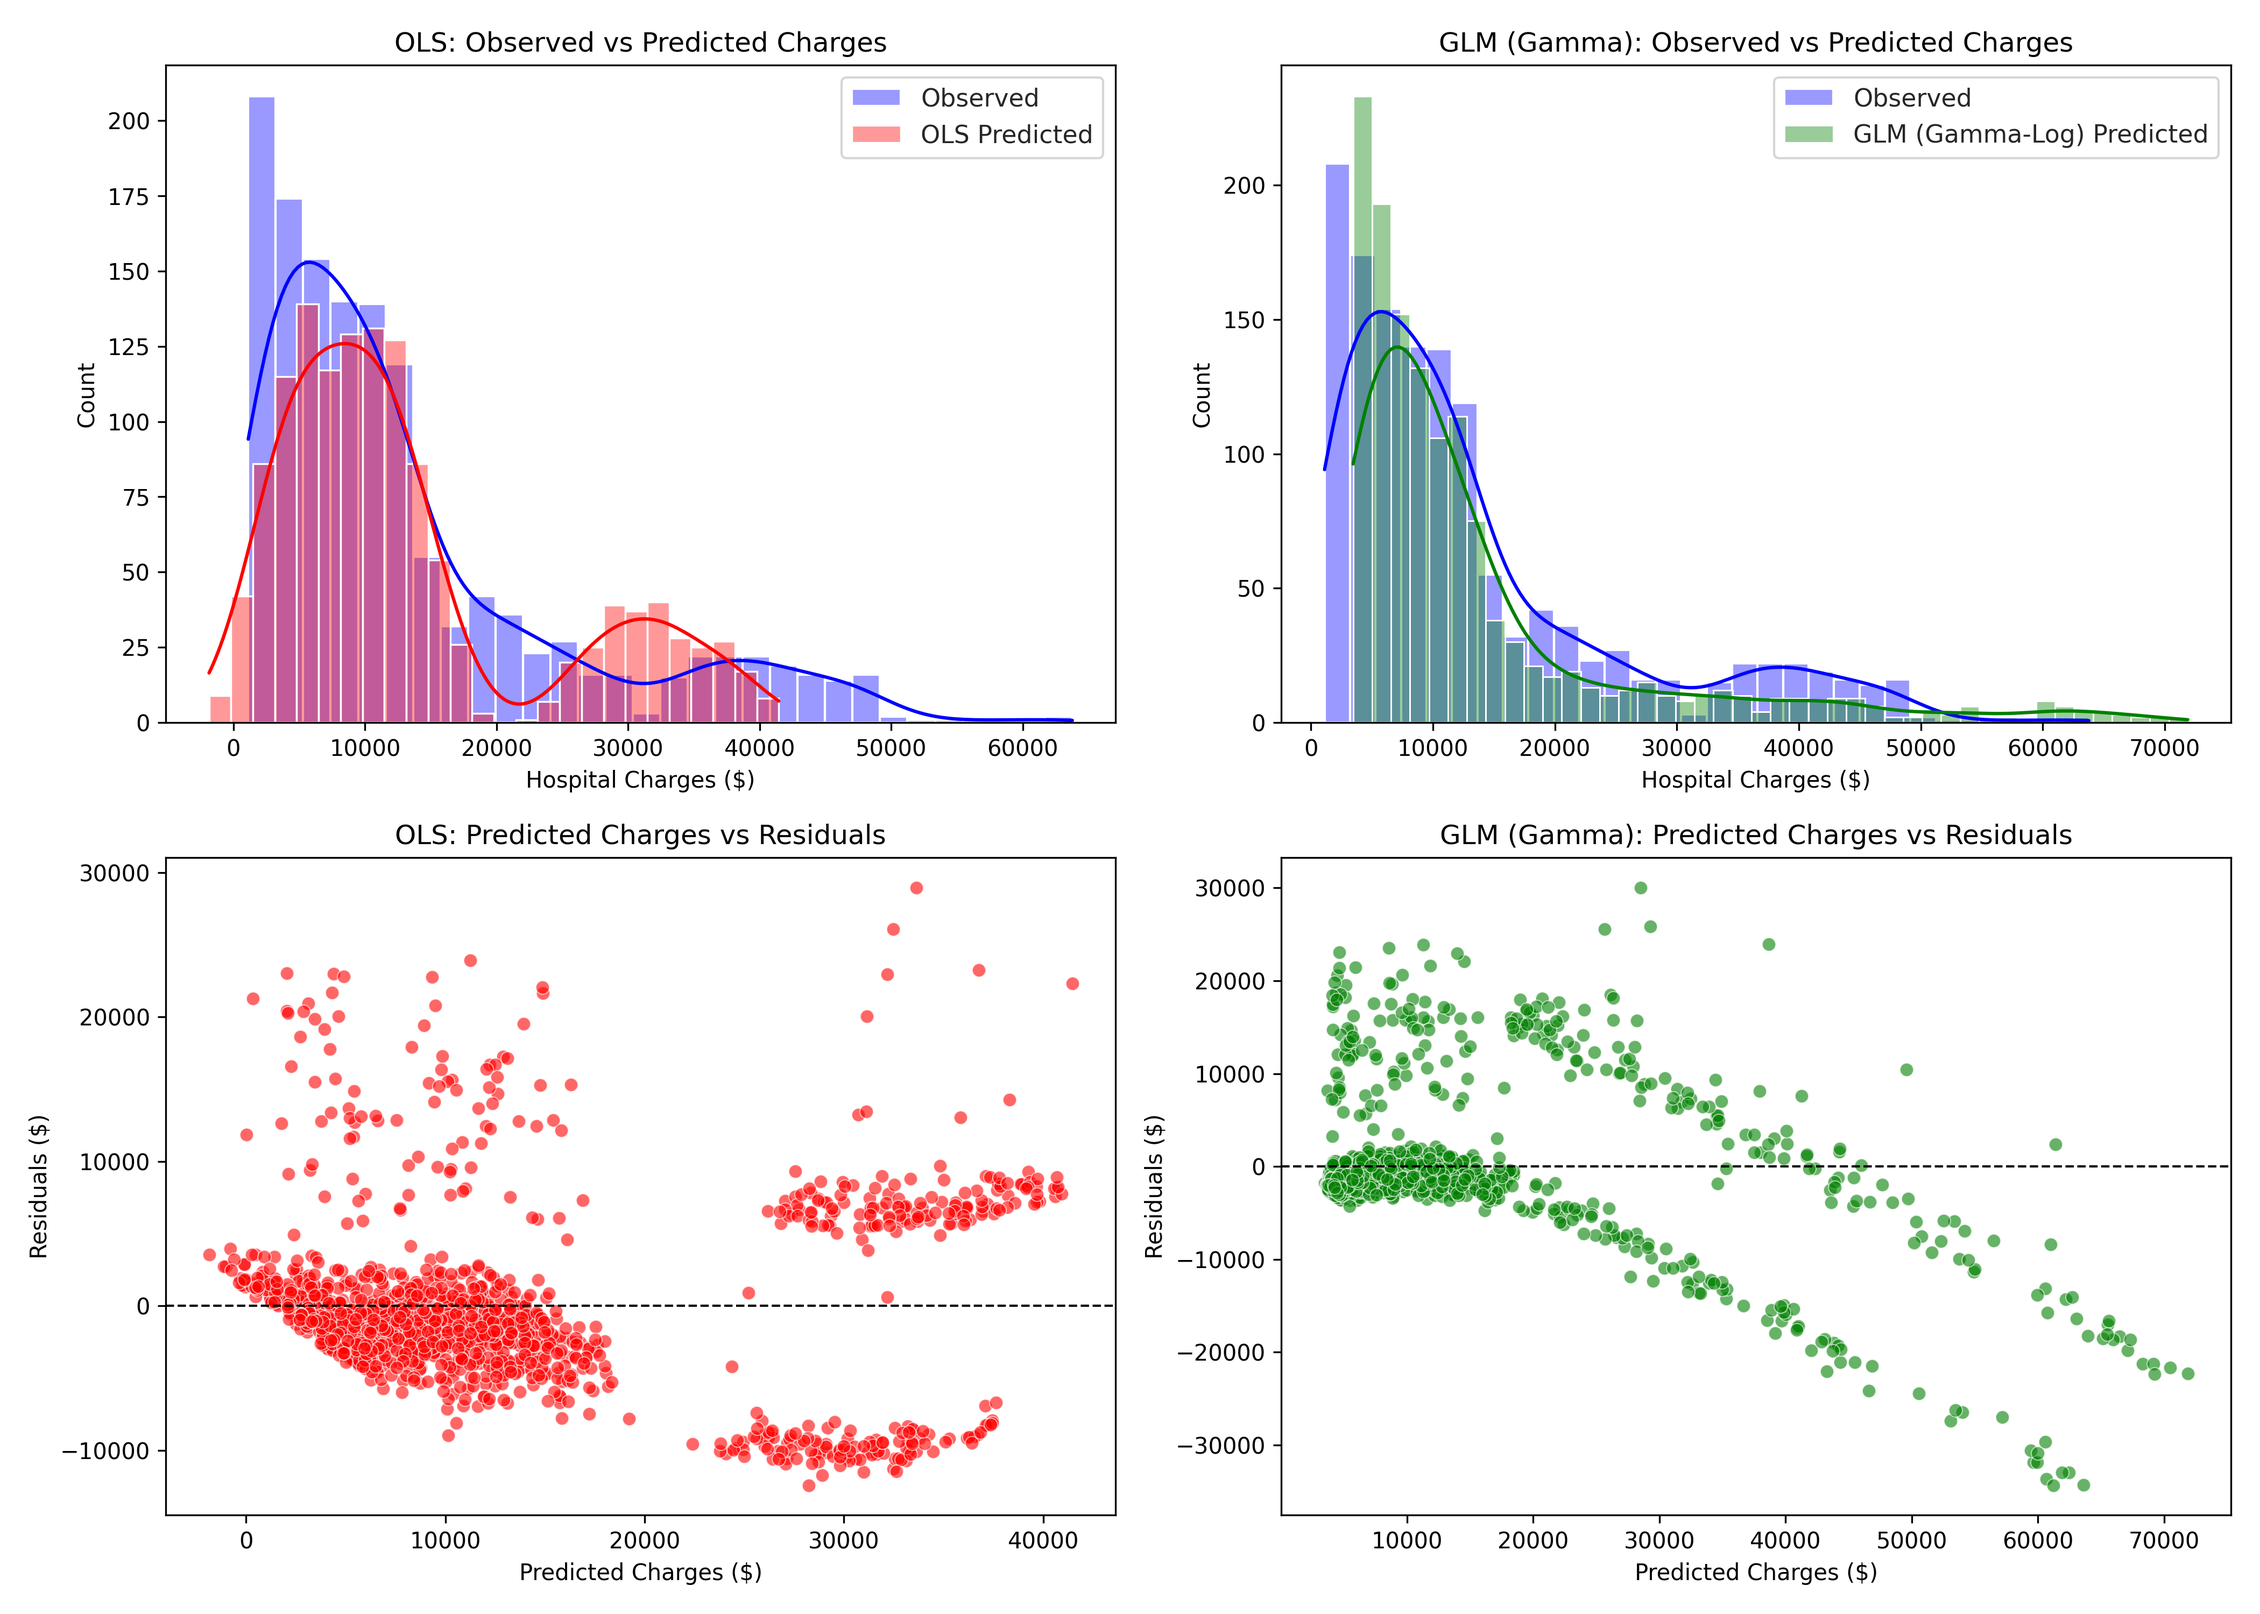
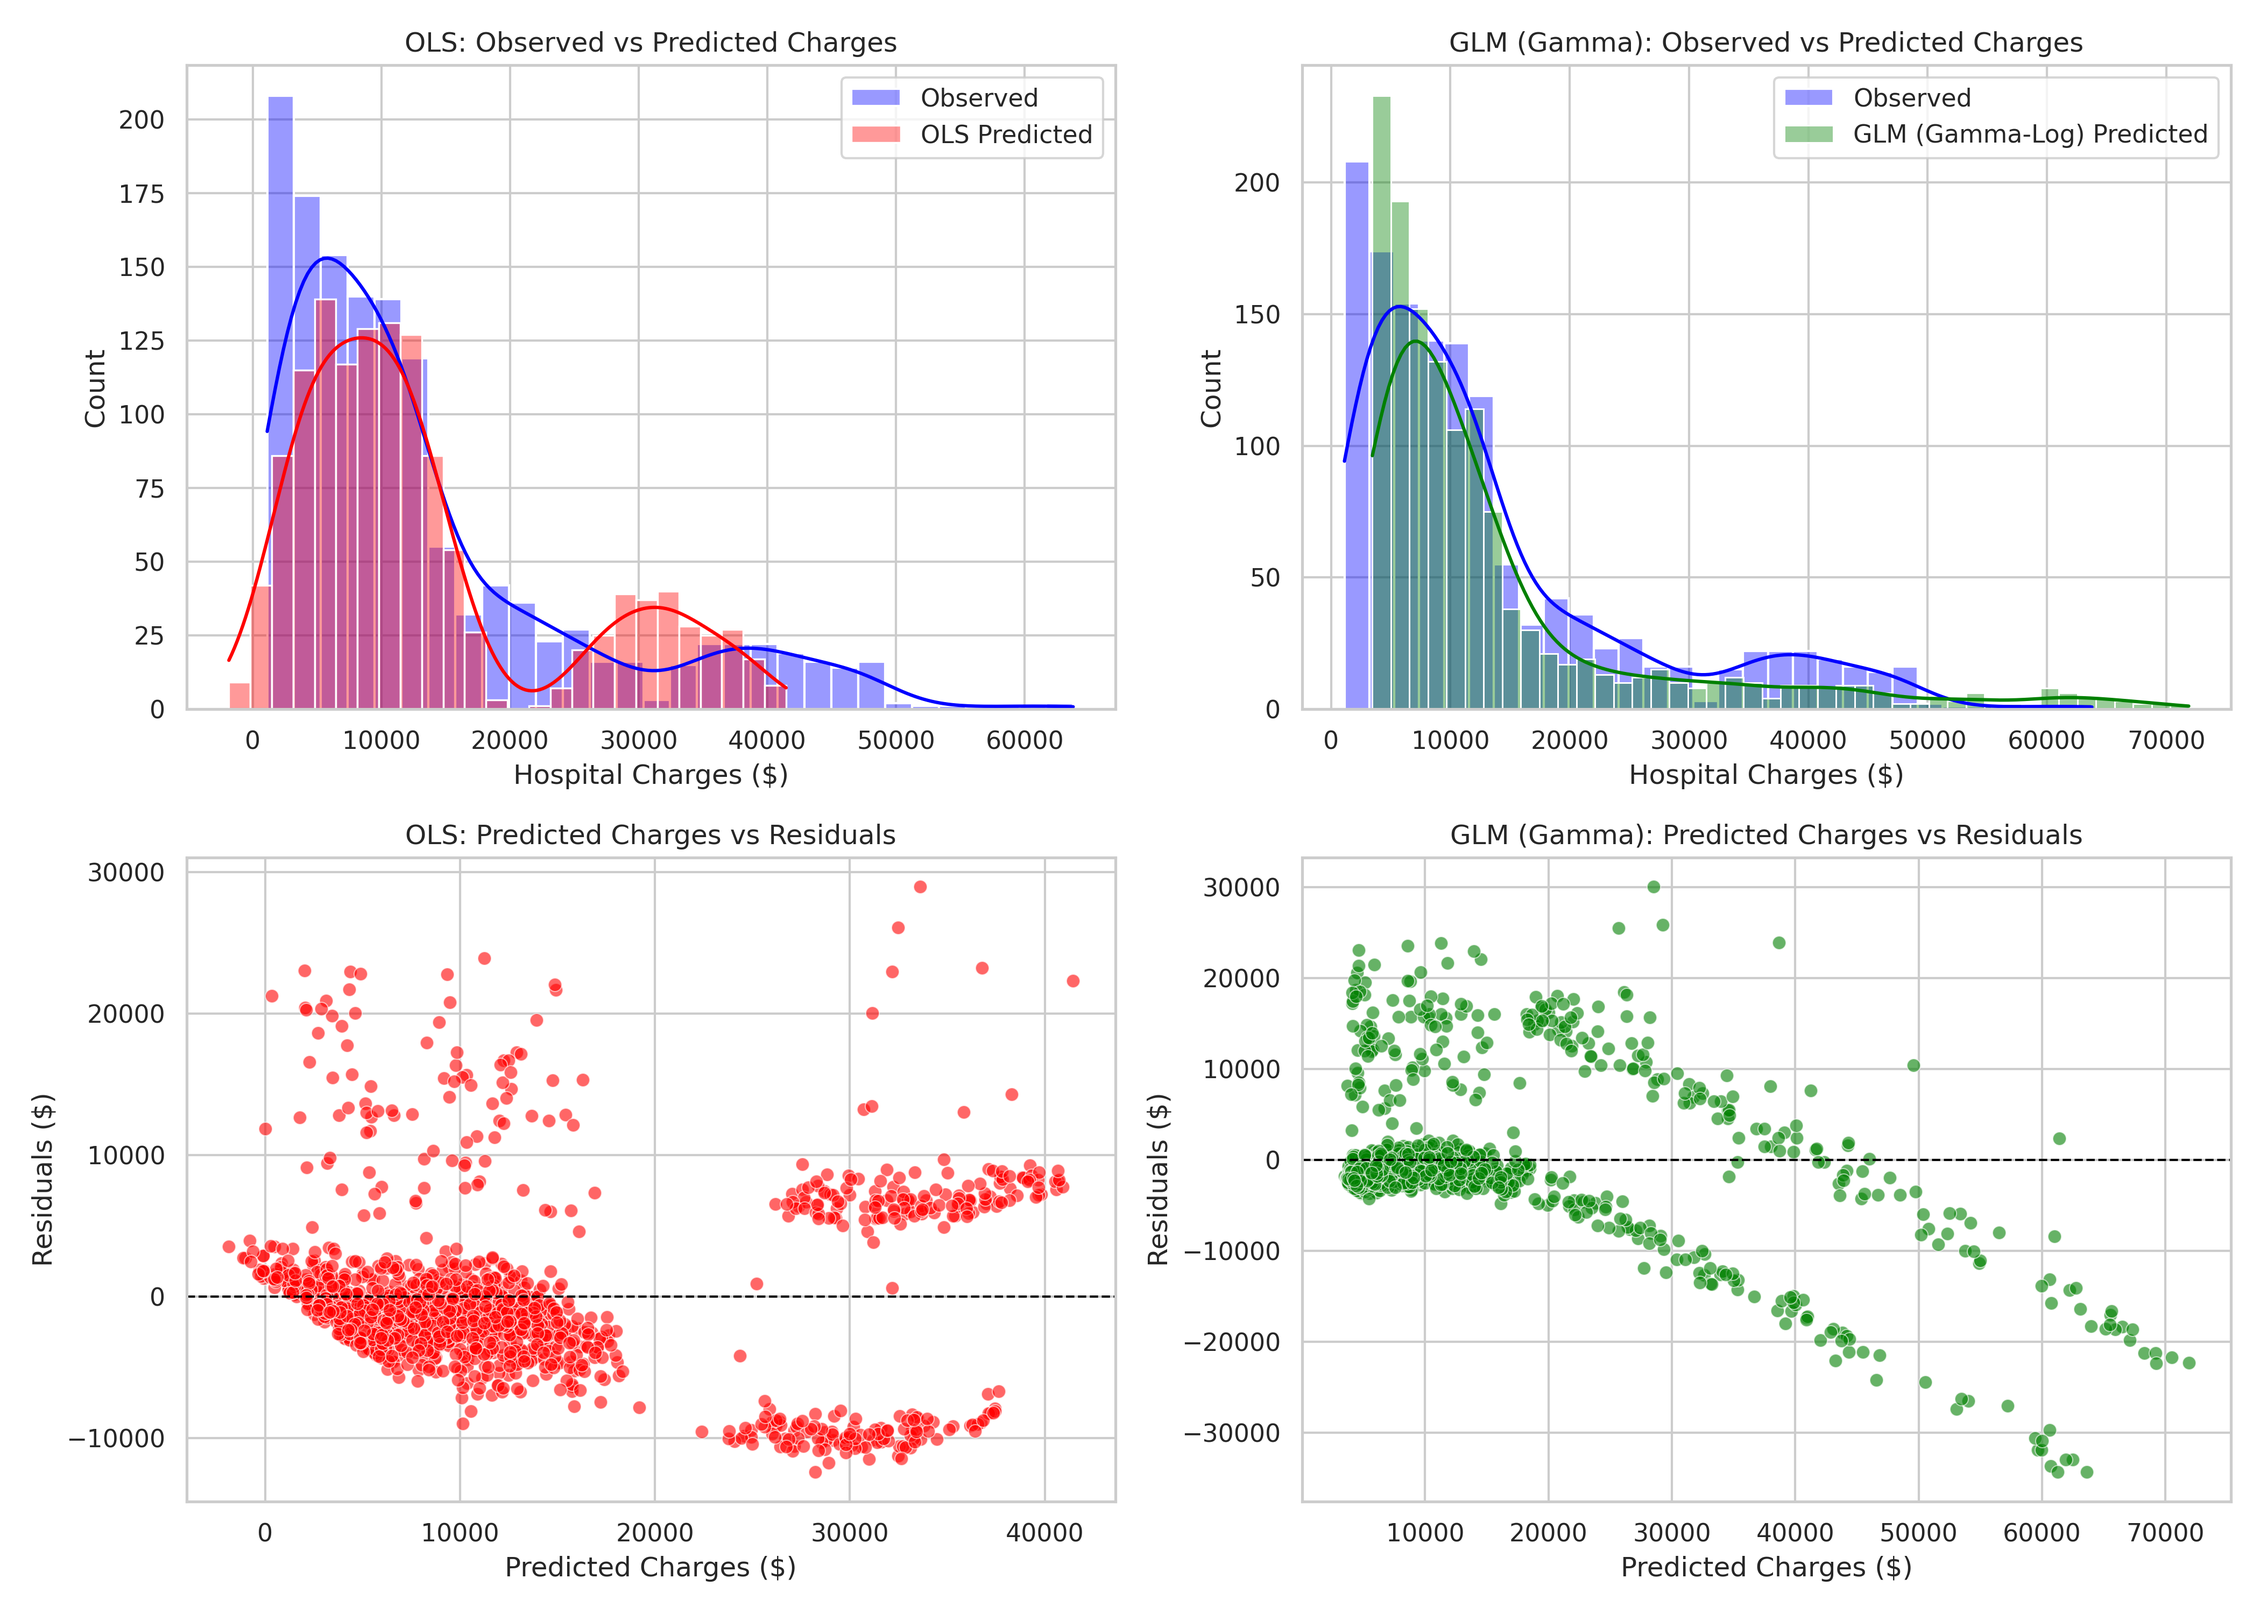
Problem complete

diff --git a/src/problem1.py b/src/problem1.py
@@ -5,6 +5,7 @@ import matplotlib.pyplot as plt
 import seaborn as sns
 import statsmodels.api as sm
 import statsmodels.formula.api as smf
+from scipy.stats import gamma, norm, probplot
 from sklearn.metrics import mean_absolute_error, root_mean_squared_error
 
 
@@ -23,6 +24,77 @@ def main():
 
     df = pd.read_csv(data_path)
 
+    # =========================================================================
+    # Problem 1(a): Distribution & Diagnostic Plots
+    # =========================================================================
+    fig_a, axes_a = plt.subplots(1, 2, figsize=(14, 5))
+    sns.set_theme(style="whitegrid")
+
+    # Plot 1: Empirical Distribution vs Fitted Normal & Gamma PDFs
+    sns.histplot(
+        df["charges"],
+        stat="density",
+        bins=30,
+        color="skyblue",
+        alpha=0.6,
+        ax=axes_a[0],
+        label="Observed Data",
+    )
+
+    x_range = np.linspace(df["charges"].min(), df["charges"].max(), 500)
+
+    # Fit Normal PDF
+    mu_norm, std_norm = norm.fit(df["charges"])
+    norm_pdf = norm.pdf(x_range, mu_norm, std_norm)
+    axes_a[0].plot(
+        x_range, norm_pdf, "r--", linewidth=2, label="Fitted Normal PDF"
+    )
+
+    # Fit Gamma PDF
+    shape_g, loc_g, scale_g = gamma.fit(df["charges"], floc=0)
+    gamma_pdf = gamma.pdf(x_range, shape_g, loc_g, scale_g)
+    axes_a[0].plot(
+        x_range, gamma_pdf, "g-", linewidth=2, label="Fitted Gamma PDF"
+    )
+
+    axes_a[0].set_title(
+        "1(a) Empirical Density vs Normal & Gamma Fits", fontweight="bold"
+    )
+    axes_a[0].set_xlabel("Hospital Charges ($)")
+    axes_a[0].set_ylabel("Density")
+    axes_a[0].legend()
+
+    # Plot 2: Gamma Q-Q Plot (Empirical vs Theoretical Quantiles)
+    (osm_g, osr_g), (slope_g, intercept_g, r_g) = probplot(
+        df["charges"], dist=gamma(shape_g, loc=loc_g, scale=scale_g)
+    )
+    axes_a[1].plot(osm_g, osr_g, "o", color="teal", alpha=0.5, label="Data Quantiles")
+    axes_a[1].plot(
+        osm_g,
+        slope_g * np.array(osm_g) + intercept_g,
+        "r--",
+        linewidth=2,
+        label=f"Reference Line ($R^2 = {r_g**2:.3f}$)",
+    )
+
+    axes_a[1].set_title(
+        "1(a) Gamma Q-Q Plot (Goodness-of-Fit)", fontweight="bold"
+    )
+    axes_a[1].set_xlabel("Theoretical Gamma Quantiles ($)")
+    axes_a[1].set_ylabel("Ordered Observed Charges ($)")
+    axes_a[1].legend()
+
+    plt.tight_layout()
+    fig_a_path = os.path.join(
+        "results", "figures", "problem1a_distribution_justification.png"
+    )
+    plt.savefig(fig_a_path, dpi=300)
+    plt.show()
+
+    # =========================================================================
+    # Problem 1(b) & 1(c): Fitting OLS & Gamma GLM and Comparing Results
+    # =========================================================================
+
     # 1. Fit Ordinary Linear Regression Model (OLS)
     ols_model = smf.ols("charges ~ age + bmi + C(smoker)", data=df).fit()
     df["pred_ols"] = ols_model.predict(df)
@@ -38,8 +110,7 @@ def main():
     df["resid_glm"] = df["charges"] - df["pred_glm"]
 
     # --- Problem 1(b): Visualization ---
-    fig, axes = plt.subplots(2, 2, figsize=(14, 10))
-    sns.set_theme(style="whitegrid")
+    fig_b, axes_b = plt.subplots(2, 2, figsize=(14, 10))
 
     # (i) Histogram plot comparing observed vs predicted charges
     # OLS Histogram
@@ -49,7 +120,7 @@ def main():
         color="blue",
         alpha=0.4,
         kde=True,
-        ax=axes[0, 0],
+        ax=axes_b[0, 0],
     )
     sns.histplot(
         df["pred_ols"],
@@ -57,12 +128,12 @@ def main():
         color="red",
         alpha=0.4,
         kde=True,
-        ax=axes[0, 0],
+        ax=axes_b[0, 0],
     )
-    axes[0, 0].set_title("OLS: Observed vs Predicted Charges")
-    axes[0, 0].set_xlabel("Hospital Charges ($)")
-    axes[0, 0].set_ylabel("Count")
-    axes[0, 0].legend()
+    axes_b[0, 0].set_title("OLS: Observed vs Predicted Charges")
+    axes_b[0, 0].set_xlabel("Hospital Charges ($)")
+    axes_b[0, 0].set_ylabel("Count")
+    axes_b[0, 0].legend()
 
     # GLM Histogram
     sns.histplot(
@@ -71,7 +142,7 @@ def main():
         color="blue",
         alpha=0.4,
         kde=True,
-        ax=axes[0, 1],
+        ax=axes_b[0, 1],
     )
     sns.histplot(
         df["pred_glm"],
@@ -79,22 +150,22 @@ def main():
         color="green",
         alpha=0.4,
         kde=True,
-        ax=axes[0, 1],
+        ax=axes_b[0, 1],
     )
-    axes[0, 1].set_title("GLM (Gamma): Observed vs Predicted Charges")
-    axes[0, 1].set_xlabel("Hospital Charges ($)")
-    axes[0, 1].set_ylabel("Count")
-    axes[0, 1].legend()
+    axes_b[0, 1].set_title("GLM (Gamma): Observed vs Predicted Charges")
+    axes_b[0, 1].set_xlabel("Hospital Charges ($)")
+    axes_b[0, 1].set_ylabel("Count")
+    axes_b[0, 1].legend()
 
     # (ii) Scatterplot comparing predicted charges to residuals
     # OLS Residuals
     sns.scatterplot(
-        x="pred_ols", y="resid_ols", data=df, alpha=0.6, color="red", ax=axes[1, 0]
+        x="pred_ols", y="resid_ols", data=df, alpha=0.6, color="red", ax=axes_b[1, 0]
     )
-    axes[1, 0].axhline(0, color="black", linestyle="--", linewidth=1)
-    axes[1, 0].set_title("OLS: Predicted Charges vs Residuals")
-    axes[1, 0].set_xlabel("Predicted Charges ($)")
-    axes[1, 0].set_ylabel("Residuals ($)")
+    axes_b[1, 0].axhline(0, color="black", linestyle="--", linewidth=1)
+    axes_b[1, 0].set_title("OLS: Predicted Charges vs Residuals")
+    axes_b[1, 0].set_xlabel("Predicted Charges ($)")
+    axes_b[1, 0].set_ylabel("Residuals ($)")
 
     # GLM Residuals
     sns.scatterplot(
@@ -103,16 +174,18 @@ def main():
         data=df,
         alpha=0.6,
         color="green",
-        ax=axes[1, 1],
+        ax=axes_b[1, 1],
     )
-    axes[1, 1].axhline(0, color="black", linestyle="--", linewidth=1)
-    axes[1, 1].set_title("GLM (Gamma): Predicted Charges vs Residuals")
-    axes[1, 1].set_xlabel("Predicted Charges ($)")
-    axes[1, 1].set_ylabel("Residuals ($)")
+    axes_b[1, 1].axhline(0, color="black", linestyle="--", linewidth=1)
+    axes_b[1, 1].set_title("GLM (Gamma): Predicted Charges vs Residuals")
+    axes_b[1, 1].set_xlabel("Predicted Charges ($)")
+    axes_b[1, 1].set_ylabel("Residuals ($)")
 
     plt.tight_layout()
-    fig_path = os.path.join("results", "figures", "problem1_model_comparison.png")
-    plt.savefig(fig_path, dpi=300)
+    fig_b_path = os.path.join(
+        "results", "figures", "problem1_model_comparison.png"
+    )
+    plt.savefig(fig_b_path, dpi=300)
     plt.show()
 
     # --- Problem 1(c): Metrics comparison ---

diff --git a/src/problem2.py b/src/problem2.py
@@ -1,0 +1,125 @@
+import os
+import pandas as pd
+import numpy as np
+import matplotlib.pyplot as plt
+import seaborn as sns
+import statsmodels.api as sm
+import statsmodels.formula.api as smf
+
+
+def main():
+    # Ensure directories exist
+    os.makedirs("data", exist_ok=True)
+    os.makedirs("results/figures", exist_ok=True)
+    os.makedirs("results/tables", exist_ok=True)
+
+    # Load sleepstudy dataset
+    data_path = os.path.join("data", "sleepstudy.csv")
+    if not os.path.exists(data_path):
+        raise FileNotFoundError(
+            f"Dataset not found at '{data_path}'. Please ensure 'sleepstudy.csv' is in the 'data/' directory."
+        )
+
+    df = pd.read_csv(data_path)
+
+    # =========================================================================
+    # Problem 2(a): Visualization of Individual Trajectories (10 pts)
+    # =========================================================================
+    subjects = sorted(df["Subject"].unique())
+    num_subjects = len(subjects)
+    
+    # Grid layout for individual subplots
+    ncols = 6
+    nrows = int(np.ceil(num_subjects / ncols))
+    
+    fig, axes = plt.subplots(nrows, ncols, figsize=(18, 3 * nrows), sharex=True, sharey=True)
+    axes = axes.flatten()
+
+    for idx, subj in enumerate(subjects):
+        ax = axes[idx]
+        subj_df = df[df["Subject"] == subj]
+
+        # Scatter plot of reaction times
+        ax.scatter(subj_df["Days"], subj_df["Reaction"], color="indigo", alpha=0.7, s=30)
+
+        # Fit individual OLS regression line
+        m, b = np.polyfit(subj_df["Days"], subj_df["Reaction"], 1)
+        x_vals = np.array([subj_df["Days"].min(), subj_df["Days"].max()])
+        ax.plot(x_vals, m * x_vals + b, color="crimson", linewidth=1.5, linestyle="--")
+
+        ax.set_title(f"Subject {subj}", fontsize=10, fontweight="bold")
+        ax.grid(True, linestyle=":", alpha=0.6)
+
+    # Remove unused subplots
+    for idx in range(num_subjects, len(axes)):
+        fig.delaxes(axes[idx])
+
+    fig.supxlabel("Days of Sleep Deprivation", fontweight="bold", y=0.01)
+    fig.supylabel("Average Reaction Time (ms)", fontweight="bold", x=0.01)
+    fig.suptitle("Problem 2(a): Individual Trajectories & OLS Fits across Days", fontsize=14, fontweight="bold")
+
+    plt.tight_layout()
+    fig_path = os.path.join("results", "figures", "problem2a_individual_trajectories.png")
+    plt.savefig(fig_path, dpi=300)
+    plt.show()
+
+    # =========================================================================
+    # Problem 2(b): Model Comparisons (OLS vs Mixed Models) (10 pts)
+    # =========================================================================
+    
+    # 1. Standard OLS Model (Ignores subject-level grouping)
+    ols_mod = smf.ols("Reaction ~ Days", data=df).fit()
+
+    # 2. Random Intercept Model
+    # Reaction ~ Days, random intercept for each Subject
+    ri_mod = smf.mixedlm("Reaction ~ Days", df, groups=df["Subject"]).fit()
+
+    # 3. Random Slope Model
+    # Reaction ~ Days, random slope for Days (no random intercept, re_formula="0 + Days")
+    rs_mod = smf.mixedlm("Reaction ~ Days", df, groups=df["Subject"], re_formula="0 + Days").fit()
+
+    # 4. Random Intercept and Random Slope Model
+    # Reaction ~ Days, random intercept and slope for Days (re_formula="1 + Days")
+    ris_mod = smf.mixedlm("Reaction ~ Days", df, groups=df["Subject"], re_formula="~Days").fit()
+
+    # Model Evaluation Metrics Table
+    comparison_df = pd.DataFrame({
+        "Model": [
+            "Ordinary Least Squares (OLS)",
+            "Random Intercept",
+            "Random Slope",
+            "Random Intercept & Slope"
+        ],
+        "Log-Likelihood": [
+            ols_mod.llf,
+            ri_mod.llf,
+            rs_mod.llf,
+            ris_mod.llf
+        ],
+        "AIC": [
+            ols_mod.aic,
+            ri_mod.aic,
+            rs_mod.aic,
+            ris_mod.aic
+        ],
+        "BIC": [
+            ols_mod.bic,
+            ri_mod.bic,
+            rs_mod.bic,
+            ris_mod.bic
+        ]
+    })
+
+    print("\n--- Problem 2 Model Comparison Metrics ---")
+    print(comparison_df.to_string(index=False))
+
+    table_path = os.path.join("results", "tables", "problem2_model_comparison.csv")
+    comparison_df.to_csv(table_path, index=False)
+
+    # Print summary for best fitting model (Random Intercept & Slope)
+    print("\n--- Best Model Summary (Random Intercept & Slope) ---")
+    print(ris_mod.summary())
+
+
+if __name__ == "__main__":
+    main()
